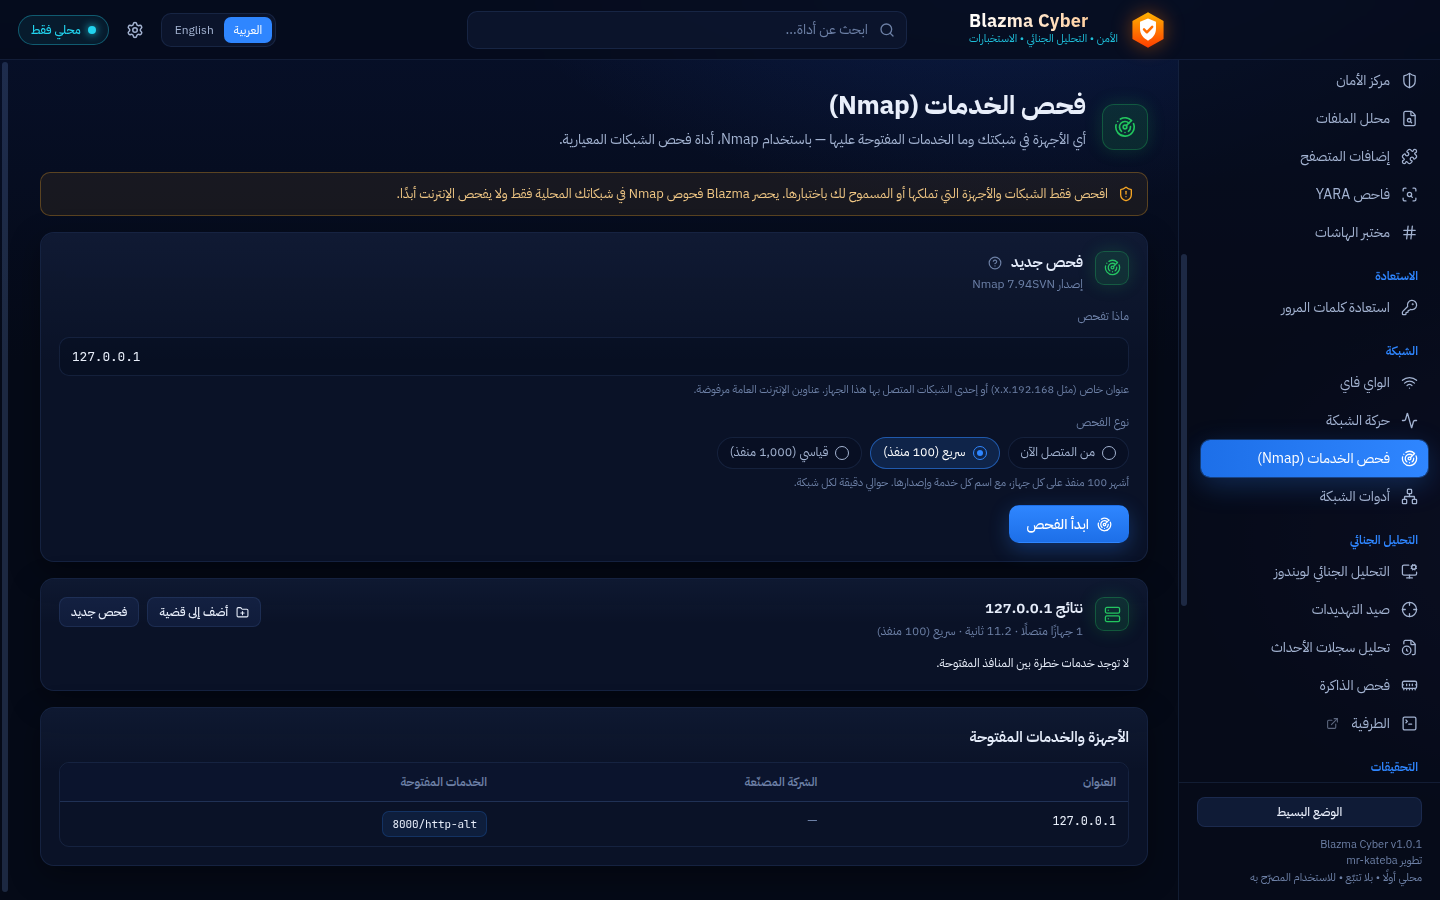
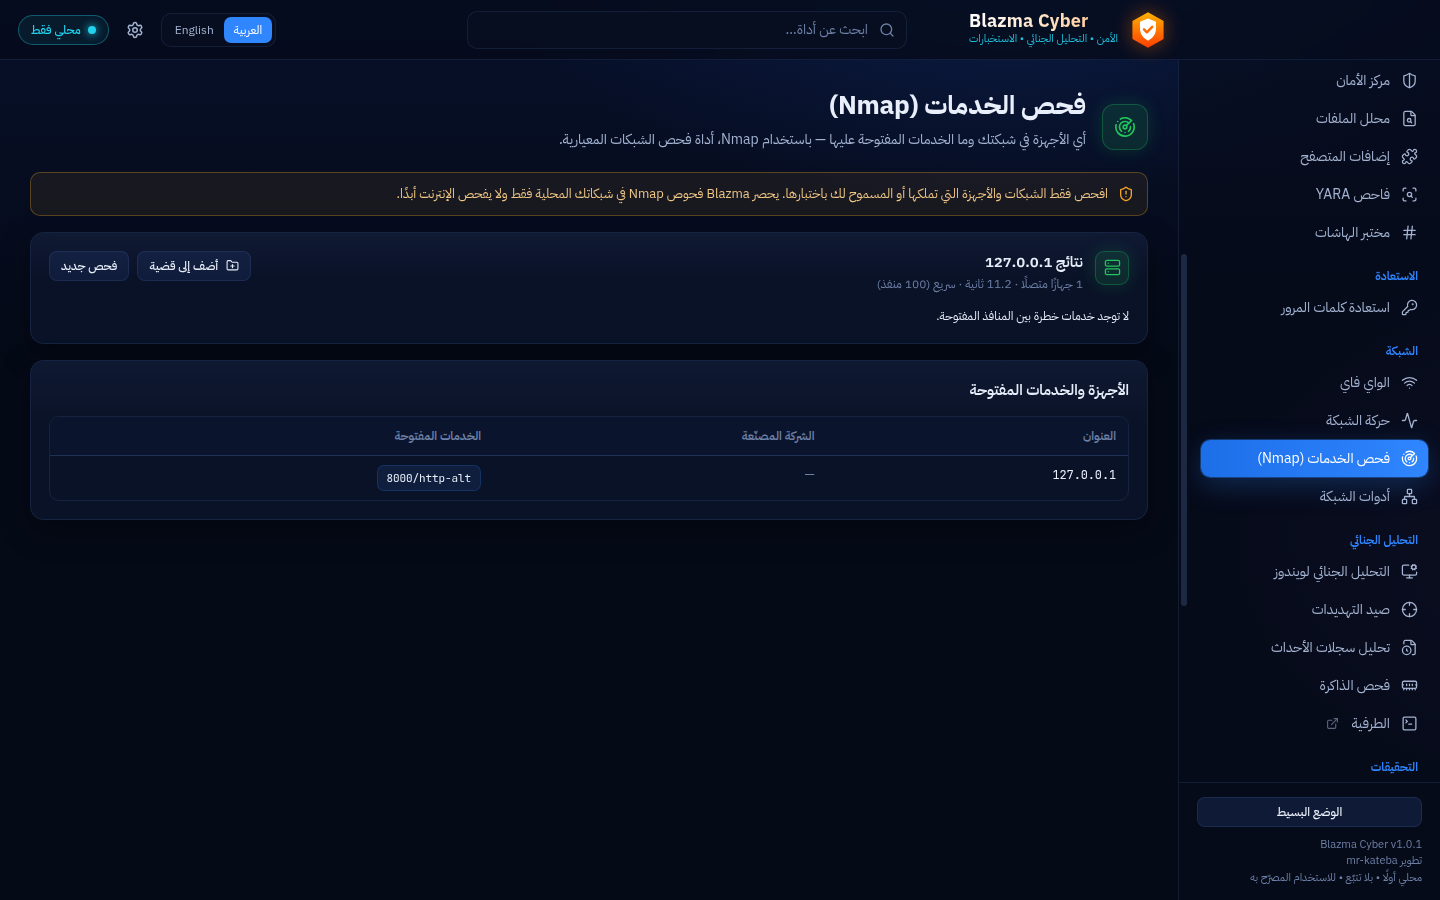
Light theme and 'Match Windows' theme option
- Surfaces, fields, buttons and scrims are now theme tokens instead of fixed dark colours
- Light palette with darkened status tones so coloured text stays readable
- 'Match Windows' follows the Windows app mode live; the caption buttons and window
  background follow the theme (nativeTheme + setTitleBarOverlay)
- E2E switches to the light theme and checks the palette is applied

diff --git a/src/renderer/styles/theme.css b/src/renderer/styles/theme.css
@@ -36,6 +36,17 @@
   --font: 'IBM Plex Sans Arabic', 'Segoe UI', system-ui, sans-serif;
   --mono: 'JetBrains Mono', 'Cascadia Mono', Consolas, monospace;
   --ease: cubic-bezier(0.2, 0.8, 0.2, 1);
+  --chrome: rgba(6, 11, 26, 0.75);
+  --chrome-2: rgba(6, 11, 26, 0.6);
+  --field: rgba(8, 15, 34, 0.75);
+  --sunken: rgba(10, 18, 40, 0.6);
+  --sunken-hover: rgba(10, 18, 40, 0.8);
+  --btn: rgba(20, 34, 68, 0.7);
+  --btn-hover: rgba(28, 46, 90, 0.85);
+  --scrim: rgba(2, 5, 14, 0.66);
+  --on-tint: #fff;
+  --danger-text: #ffd2da;
+  --brand-grad: linear-gradient(90deg, #fff, #ffc58a);
   color-scheme: dark;
 }
 
@@ -49,6 +60,44 @@
   --panel-solid: #0a0e18;
   --panel-hover: rgba(20, 28, 46, 0.95);
   --border: rgba(120, 140, 180, 0.13);
+}
+
+/* Light theme: same layout, daylight palette. Tones are darkened so text in them keeps AA contrast. */
+:root[data-theme='light'] {
+  --bg: #f3f6fb;
+  --bg-2: #e9eff8;
+  --bg-glow-1: rgba(47, 134, 255, 0.1);
+  --bg-glow-2: rgba(139, 92, 246, 0.06);
+  --panel: rgba(255, 255, 255, 0.92);
+  --panel-2: rgba(248, 250, 254, 0.96);
+  --panel-solid: #ffffff;
+  --panel-hover: rgba(236, 242, 252, 0.98);
+  --border: rgba(30, 60, 120, 0.13);
+  --border-strong: rgba(37, 99, 235, 0.45);
+  --text: #0f1b33;
+  --text-2: #3d4d6b;
+  --text-3: #66758f;
+  --primary: #2563eb;
+  --primary-2: #1d4ed8;
+  --cyan: #0e7490;
+  --purple: #7c3aed;
+  --green: #15803d;
+  --amber: #b45309;
+  --red: #dc2626;
+  --glow-primary: 0 0 0 1px rgba(37, 99, 235, 0.35), 0 6px 18px rgba(37, 99, 235, 0.18);
+  --shadow: 0 6px 20px rgba(15, 30, 60, 0.08);
+  --chrome: rgba(255, 255, 255, 0.85);
+  --chrome-2: rgba(248, 250, 254, 0.9);
+  --field: #ffffff;
+  --sunken: rgba(235, 241, 250, 0.8);
+  --sunken-hover: rgba(225, 235, 250, 0.95);
+  --btn: #ffffff;
+  --btn-hover: #eef3fc;
+  --scrim: rgba(15, 25, 45, 0.45);
+  --on-tint: #1d4ed8;
+  --danger-text: #b91c1c;
+  --brand-grad: linear-gradient(90deg, #1b2440, #d9480f);
+  color-scheme: light;
 }
 
 * {
@@ -209,7 +258,7 @@ table.data time {
   padding-left: max(18px, env(titlebar-area-x, 0px));
   padding-right: max(18px, calc(100vw - env(titlebar-area-x, 0px) - env(titlebar-area-width, 100vw)));
   border-bottom: 1px solid var(--border);
-  background: rgba(6, 11, 26, 0.75);
+  background: var(--chrome);
   backdrop-filter: blur(14px);
   -webkit-app-region: drag;
   z-index: 5;
@@ -238,7 +287,7 @@ table.data time {
   letter-spacing: 0.01em;
   direction: ltr;
   line-height: 1.1;
-  background: linear-gradient(90deg, #fff, #ffc58a);
+  background: var(--brand-grad);
   -webkit-background-clip: text;
   background-clip: text;
   color: transparent;
@@ -261,7 +310,7 @@ table.data time {
   padding-inline: 38px 12px;
   border-radius: 10px;
   border: 1px solid var(--border);
-  background: rgba(14, 24, 50, 0.7);
+  background: var(--field);
   outline: none;
   transition: border-color 0.2s, box-shadow 0.2s;
 }
@@ -339,7 +388,7 @@ table.data time {
   padding: 3px;
   border-radius: 10px;
   border: 1px solid var(--border);
-  background: rgba(14, 24, 50, 0.7);
+  background: var(--field);
 }
 .lang-switch button {
   border: 0;
@@ -393,7 +442,7 @@ table.data time {
   display: flex;
   flex-direction: column;
   border-inline-end: 1px solid var(--border);
-  background: rgba(6, 11, 26, 0.6);
+  background: var(--chrome-2);
   overflow: hidden;
 }
 .sidebar nav {
@@ -641,7 +690,7 @@ table.data time {
   padding-inline: 16px;
   border-radius: 10px;
   border: 1px solid var(--border);
-  background: rgba(20, 34, 68, 0.7);
+  background: var(--btn);
   color: var(--text);
   font-weight: 500;
   cursor: pointer;
@@ -650,7 +699,7 @@ table.data time {
 }
 .btn:hover:not(:disabled) {
   border-color: var(--border-strong);
-  background: rgba(28, 46, 90, 0.85);
+  background: var(--btn-hover);
 }
 .btn:active:not(:disabled) {
   transform: translateY(1px);
@@ -670,7 +719,7 @@ table.data time {
   background: linear-gradient(180deg, #4a97ff, var(--primary));
 }
 .btn.danger {
-  color: #ffd2da;
+  color: var(--danger-text);
   border-color: rgba(244, 63, 94, 0.35);
   background: rgba(244, 63, 94, 0.1);
 }
@@ -915,7 +964,7 @@ table.data tbody tr:hover td {
   width: 100%;
   border-radius: 10px;
   border: 1px solid var(--border);
-  background: rgba(8, 15, 34, 0.8);
+  background: var(--field);
   padding: 9px 12px;
   outline: none;
   transition: border-color 0.2s, box-shadow 0.2s;
@@ -998,7 +1047,7 @@ table.data tbody tr:hover td {
   gap: 2px;
   border-radius: 12px;
   border: 1px solid var(--border);
-  background: rgba(8, 15, 34, 0.7);
+  background: var(--field);
   margin-bottom: 18px;
 }
 .tabs button {
@@ -1016,7 +1065,7 @@ table.data tbody tr:hover td {
 }
 .tabs button.active {
   background: rgba(47, 134, 255, 0.2);
-  color: #fff;
+  color: var(--on-tint);
   box-shadow: inset 0 0 0 1px rgba(47, 134, 255, 0.4);
 }
 
@@ -1034,7 +1083,7 @@ table.data tbody tr:hover td {
   border: 1.5px dashed rgba(80, 150, 255, 0.35);
   background:
     radial-gradient(400px 200px at 50% 0%, rgba(47, 134, 255, 0.1), transparent 70%),
-    rgba(10, 18, 40, 0.6);
+    var(--sunken);
   text-align: center;
   transition: border-color 0.2s, background 0.2s, transform 0.2s var(--ease);
 }
@@ -1042,7 +1091,7 @@ table.data tbody tr:hover td {
   border-color: var(--cyan);
   background:
     radial-gradient(400px 200px at 50% 0%, rgba(34, 211, 238, 0.18), transparent 70%),
-    rgba(10, 18, 40, 0.8);
+    var(--sunken-hover);
   transform: scale(1.005);
 }
 .dropzone .drop-icon {
@@ -1135,7 +1184,7 @@ table.data tbody tr:hover td {
 .overlay {
   position: fixed;
   inset: 0;
-  background: rgba(2, 5, 14, 0.66);
+  background: var(--scrim);
   backdrop-filter: blur(4px);
   display: grid;
   place-items: center;
@@ -1245,7 +1294,7 @@ table.data tbody tr:hover td {
   padding: 22px 16px;
   border-radius: 14px;
   border: 1px solid var(--border);
-  background: rgba(10, 18, 40, 0.7);
+  background: var(--sunken);
   cursor: pointer;
   transition: border-color 0.2s, box-shadow 0.2s, transform 0.2s var(--ease);
 }
@@ -1284,7 +1333,7 @@ table.data tbody tr:hover td {
   gap: 12px;
   padding: 9px 12px;
   border-radius: 10px;
-  background: rgba(8, 15, 34, 0.6);
+  background: var(--sunken);
   border: 1px solid rgba(96, 140, 220, 0.08);
 }
 .hash-row + .hash-row {
@@ -1343,7 +1392,7 @@ table.data tbody tr:hover td {
   padding-inline: 12px;
   border-radius: 999px;
   border: 1px solid var(--border);
-  background: rgba(8, 15, 34, 0.7);
+  background: var(--field);
   color: var(--text-2);
   cursor: pointer;
   font-size: 12.5px;
@@ -1357,7 +1406,7 @@ table.data tbody tr:hover td {
 .opt.single[aria-checked='true'] {
   background: rgba(47, 134, 255, 0.16);
   border-color: rgba(47, 134, 255, 0.55);
-  color: #fff;
+  color: var(--on-tint);
 }
 .opt:disabled {
   opacity: 0.45;
@@ -1671,7 +1720,7 @@ table.data tbody tr:hover td {
   border: 1px solid var(--border);
   border-radius: 10px;
   padding: 10px 12px;
-  background: rgba(8, 15, 34, 0.45);
+  background: var(--sunken);
 }
 .tstat-l {
   font-size: 12px;

diff --git a/src/main/window-theme.ts b/src/main/window-theme.ts
@@ -1,0 +1,41 @@
+// Window chrome (background + Windows caption buttons) that matches the selected theme.
+import { nativeTheme, type BrowserWindow } from 'electron';
+import type { Theme } from '../shared/api';
+
+const CHROME = {
+  dark: { background: '#060b18', overlay: { color: '#070d1c', symbolColor: '#8fa6cf' } },
+  midnight: { background: '#020409', overlay: { color: '#04060c', symbolColor: '#8fa6cf' } },
+  light: { background: '#f3f6fb', overlay: { color: '#fbfcfe', symbolColor: '#3d4d6b' } },
+} as const;
+
+let current: Theme = 'dark';
+
+function resolved(theme: Theme): keyof typeof CHROME {
+  if (theme === 'system') return nativeTheme.shouldUseDarkColors ? 'dark' : 'light';
+  return theme;
+}
+
+/** Colours for a new window, and the source the renderer's prefers-color-scheme follows. */
+export function windowChrome(theme: Theme) {
+  current = theme;
+  nativeTheme.themeSource = theme === 'system' ? 'system' : theme === 'light' ? 'light' : 'dark';
+  return CHROME[resolved(theme)];
+}
+
+export function applyWindowTheme(win: BrowserWindow | null, theme: Theme = current): void {
+  const c = windowChrome(theme);
+  if (!win || win.isDestroyed()) return;
+  win.setBackgroundColor(c.background);
+  try {
+    win.setTitleBarOverlay({ ...c.overlay, height: 60 });
+  } catch {
+    /* no caption-button overlay on this platform */
+  }
+}
+
+/** In 'system' mode the caption buttons follow Windows switching between light and dark. */
+export function followSystemTheme(getWin: () => BrowserWindow | null): void {
+  nativeTheme.on('updated', () => {
+    if (current === 'system') applyWindowTheme(getWin());
+  });
+}

diff --git a/src/main/index.ts b/src/main/index.ts
@@ -4,6 +4,8 @@ import { pathToFileURL } from 'node:url';
 import { registerIpc } from './ipc';
 import { logger } from './services/logger';
 import { portableDataDir } from './services/paths';
+import { SettingsService } from './services/settings';
+import { followSystemTheme, windowChrome } from './window-theme';
 
 const DEV_URL = process.env.BLAZMA_DEV_URL; // set only by scripts/dev.mjs
 const RENDERER_INDEX = join(__dirname, '..', 'renderer', 'index.html');
@@ -62,17 +64,18 @@ app.on('web-contents-created', (_e, contents) => {
 });
 
 function createWindow() {
+  const chrome = windowChrome(new SettingsService().get().theme);
   win = new BrowserWindow({
     width: 1440,
     height: 900,
     minWidth: 1100,
     minHeight: 700,
-    backgroundColor: '#060b18',
+    backgroundColor: chrome.background,
     title: 'Blazma Cyber',
     show: false,
     titleBarStyle: 'hidden',
     // Same height as the top bar (--topbar-h) so the caption buttons line up with it.
-    titleBarOverlay: { color: '#070d1c', symbolColor: '#8fa6cf', height: 60 },
+    titleBarOverlay: { ...chrome.overlay, height: 60 },
     webPreferences: {
       preload: join(__dirname, '..', 'preload', 'index.cjs'),
       contextIsolation: true,
@@ -102,6 +105,7 @@ app.whenReady().then(() => {
   registerIpc(() => win, isTrustedSender);
   logger.info('app_started', { version: app.getVersion(), platform: process.platform });
   createWindow();
+  followSystemTheme(() => win);
 });
 
 app.on('window-all-closed', () => app.quit());

diff --git a/src/renderer/pages/Settings.tsx b/src/renderer/pages/Settings.tsx
@@ -40,7 +40,7 @@ function General() {
         <Select<Settings['uiMode']> value={settings.uiMode} onChange={(v) => void updateSettings({ uiMode: v })} options={[{ v: 'simple', label: t('mode.simple') }, { v: 'expert', label: t('mode.expert') }]} />
       </Row>
       <Row title={t('settings.theme')}>
-        <Select<Settings['theme']> value={settings.theme} onChange={(v) => void updateSettings({ theme: v })} options={[{ v: 'dark', label: t('settings.themeDark') }, { v: 'midnight', label: t('settings.themeMidnight') }]} />
+        <Select<Settings['theme']> value={settings.theme} onChange={(v) => void updateSettings({ theme: v })} options={[{ v: 'system', label: t('settings.themeSystem') }, { v: 'dark', label: t('settings.themeDark') }, { v: 'midnight', label: t('settings.themeMidnight') }, { v: 'light', label: t('settings.themeLight') }]} />
       </Row>
       <Row title={t('settings.startPage')}>
         <Select<Settings['startPage']>

diff --git a/src/main/ipc.ts b/src/main/ipc.ts
@@ -47,6 +47,7 @@ import { getWindowsFacts } from './services/windows-security';
 import { HistoryService } from './services/history';
 import { SecretStore, isApiKeyService } from './services/secrets';
 import { SettingsService } from './services/settings';
+import { applyWindowTheme } from './window-theme';
 import { logger, setLogLevel } from './services/logger';
 import { dataDir, portableDataDir, subDir } from './services/paths';
 
@@ -230,6 +231,7 @@ export function registerIpc(getWindow: () => BrowserWindow | null, isTrustedSend
     setLogLevel(next.logLevel);
     if (before.offlineMode !== next.offlineMode) logger.security('offline_mode_changed', { offlineMode: next.offlineMode });
     if (before.watchDownloads !== next.watchDownloads) downloads.setEnabled(next.watchDownloads);
+    if (before.theme !== next.theme) applyWindowTheme(getWindow(), next.theme);
     return { ok: true, data: next };
   });
 

diff --git a/src/renderer/App.tsx b/src/renderer/App.tsx
@@ -22,7 +22,18 @@ export function App() {
   }, []);
 
   useEffect(() => {
-    if (settings) document.documentElement.dataset.theme = settings.theme;
+    if (!settings) return;
+    const root = document.documentElement;
+    if (settings.theme !== 'system') {
+      root.dataset.theme = settings.theme;
+      return;
+    }
+    // Follow the Windows app mode live (main sets nativeTheme.themeSource = 'system').
+    const mq = window.matchMedia('(prefers-color-scheme: dark)');
+    const apply = () => (root.dataset.theme = mq.matches ? 'dark' : 'light');
+    apply();
+    mq.addEventListener('change', apply);
+    return () => mq.removeEventListener('change', apply);
   }, [settings?.theme]);
 
   if (!settings) return <div className="app-bg" />;

diff --git a/src/shared/api.ts b/src/shared/api.ts
@@ -27,7 +27,8 @@ import type { TrafficReport } from '../core/traffic/analyzer';
 import type { SavedProfile, WifiConnection, WifiFinding, WifiNetwork } from '../core/wifi';
 import type { NmapFinding, NmapProfile, NmapRun } from '../core/nmap';
 
-export type Theme = 'dark' | 'midnight';
+/** 'system' follows the Windows light/dark app mode. */
+export type Theme = 'dark' | 'midnight' | 'light' | 'system';
 export type StartPage = 'dashboard' | 'file-analyzer' | 'hash-lab' | 'privacy';
 /** simple = the essentials for everyday users; expert = every module. */
 export type UiMode = 'simple' | 'expert';

diff --git a/src/main/services/settings.ts b/src/main/services/settings.ts
@@ -8,7 +8,7 @@ import { subDir } from './paths';
 const VALIDATORS: { [K in keyof Settings]: (v: unknown) => boolean } = {
   language: (v) => v === null || isLang(v),
   uiMode: (v) => v === 'simple' || v === 'expert',
-  theme: (v) => v === 'dark' || v === 'midnight',
+  theme: (v) => v === 'dark' || v === 'midnight' || v === 'light' || v === 'system',
   startPage: (v) => v === 'dashboard' || v === 'file-analyzer' || v === 'hash-lab' || v === 'privacy',
   offlineMode: (v) => typeof v === 'boolean',
   keepHistory: (v) => typeof v === 'boolean',
